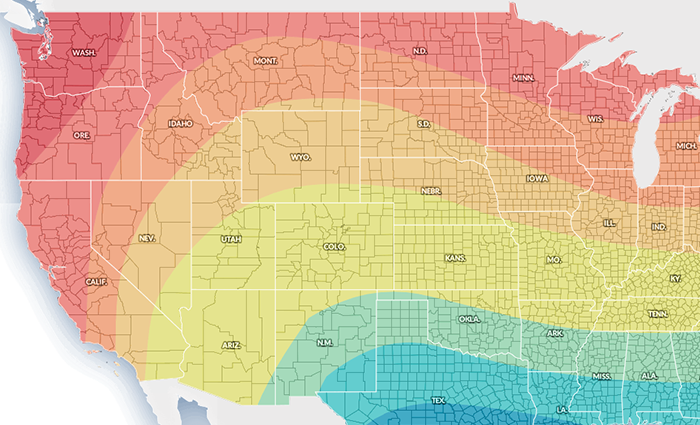
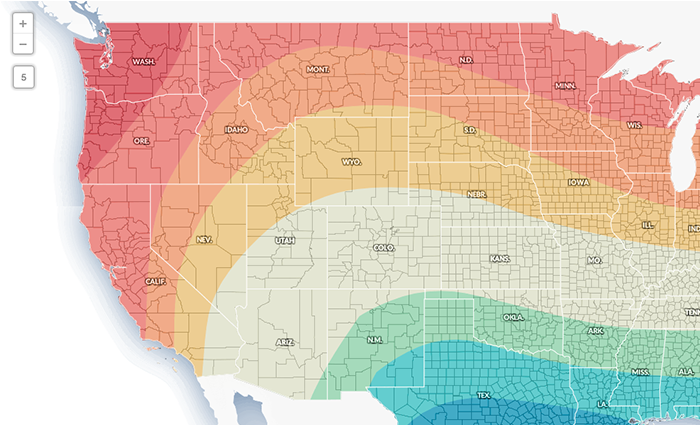
updated overlay scrnshots & added show example comment

diff --git a/courses/06-intermediate-design/lesson-4.md b/courses/06-intermediate-design/lesson-4.md
@@ -76,7 +76,7 @@ You can find more info about these in documentation for [GIMP,](http://docs.gimp
 
 Many CartoCSS comp-ops have [Photoshop blend mode](https://helpx.adobe.com/photoshop/using/blending-modes.html) equivalents. For easier comparison, we used Adobe's categories as a starting point to group them below by visual effect. The best way to learn about how comp-ops work is to try them out! You can use any of these in your map's custom CartoCSS panel, but some of our wizards also give you menu options for the most popular ones.
 
-The main reason to use composite operations is to fine-tune how much some features in your map stand out compared to others. They're a great way to control your map's legibility.  
+The main reason to use composite operations is to fine-tune how much some features in your map stand out compared to others. They're a great way to control your map's legibility. We give you some use case examples below, but we'd also love to see the reasons you use them! Share your comp-op maps with us in the comments below.
 
 ## Color Composite Operations
 
@@ -208,7 +208,7 @@ Use contrast effects when you're trying to control how both dark and light eleme
 
 ![overlay-use-case-1]({{site.baseurl}}/img/course6/lesson4/overlay-use-case-1.png)
 
-Now look how much more evenly they blend with background colors in [this map](http://bit.ly/1M4v9tW). We've also kept the white state outlines, blended slightly.
+Now look how much more evenly they blend with background colors in [this map](http://bit.ly/1M4v9tW). We've also kept the white state outlines.
 
 ![overlay-use-case-2]({{site.baseurl}}/img/course6/lesson4/overlay-use-case-2.png)
 
